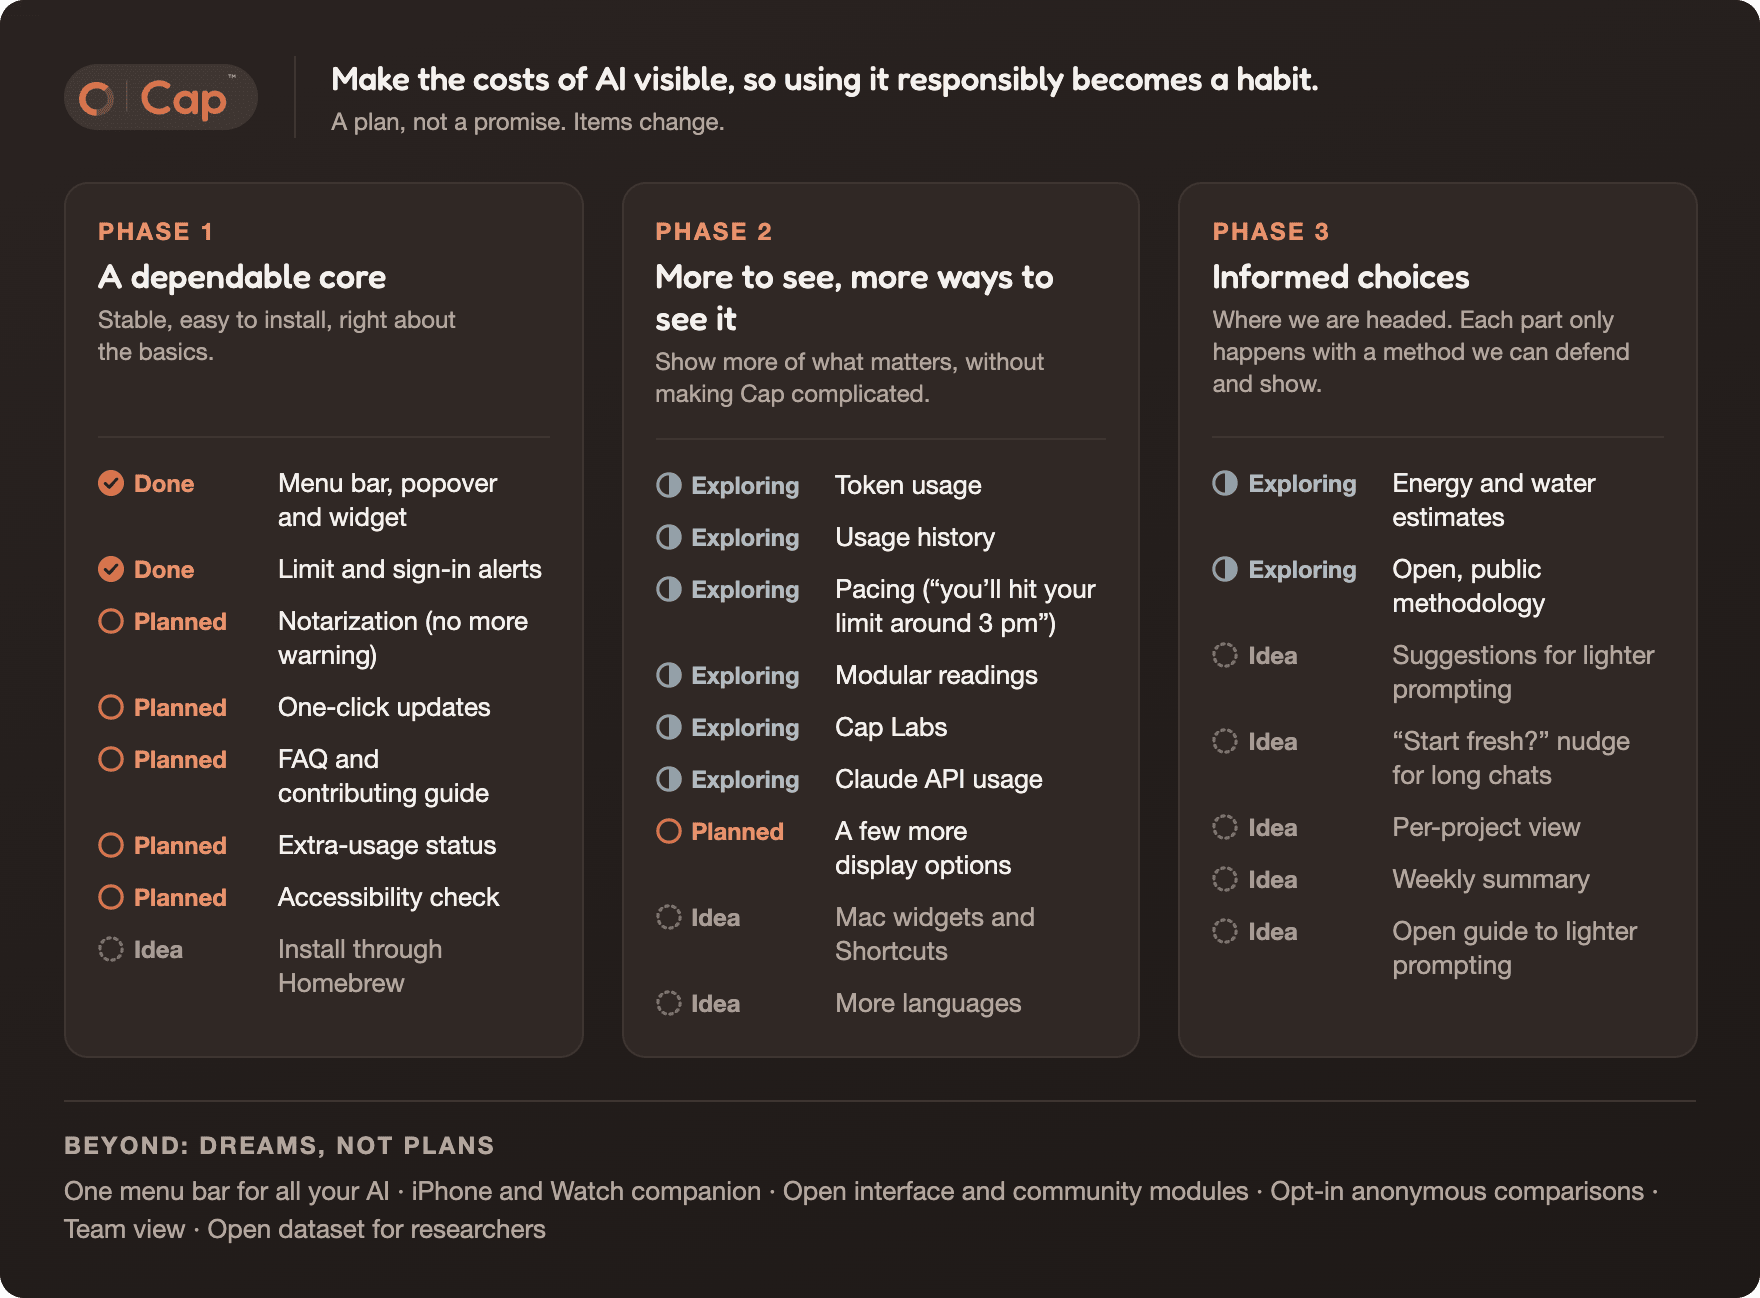
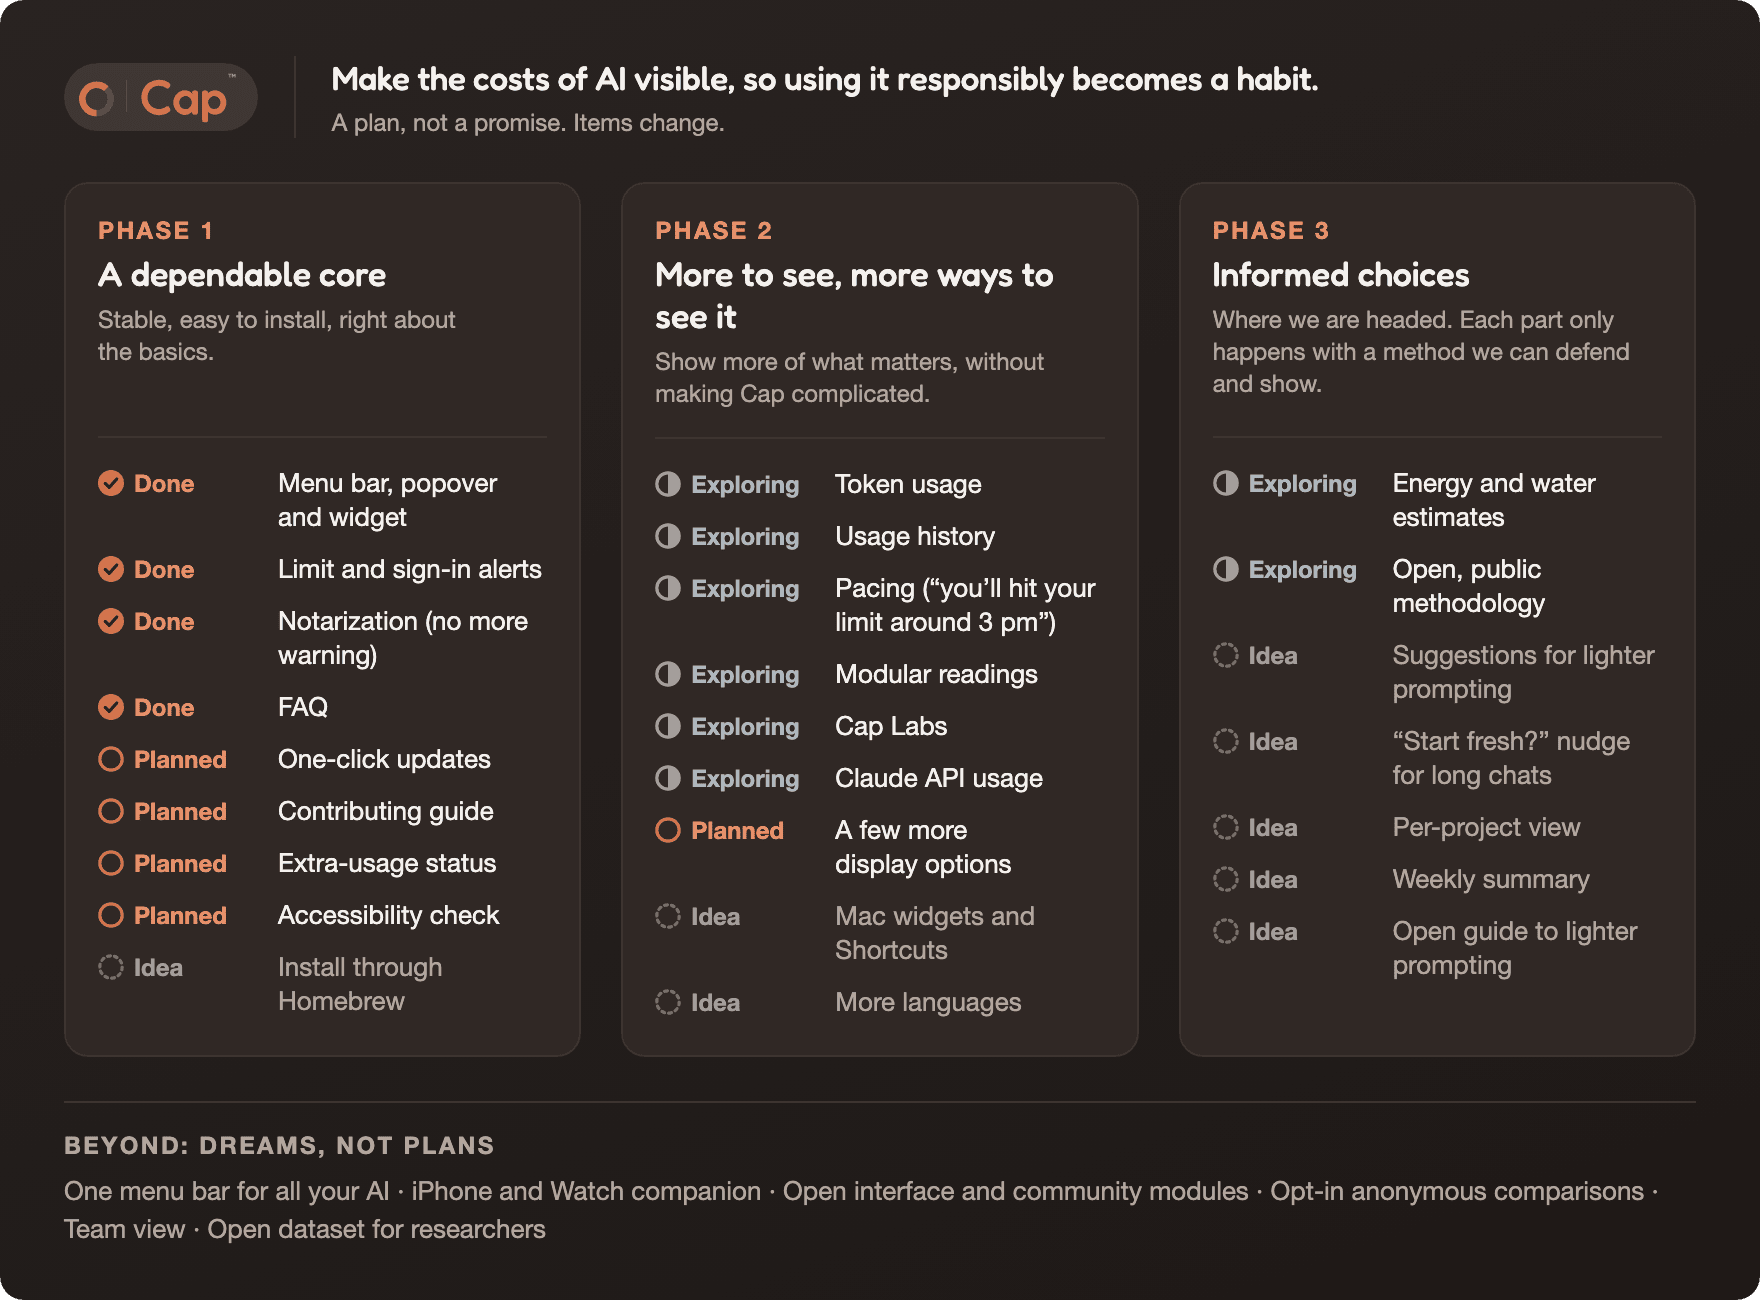
Cap 1.0.1 (build 37): signed and notarized by Apple
make-dmg.sh can sign with a Developer ID, notarize and staple. README, FAQ,
install guide and roadmap updated.

diff --git a/INSTALL.md b/INSTALL.md
@@ -1,30 +1,17 @@
 # Installing Cap
 
-Cap is free and open source, and it is not yet notarized by Apple. That means macOS will stop it the first time you open it and ask you to confirm. This page walks through every step, so nothing on the screen is a surprise.
-
-**About 3 minutes. You will need Touch ID or your Mac password once.**
+Cap is free and open source. It is signed with an Apple Developer ID and notarized by Apple, so it installs like any other Mac app you download.
 
 ## Before you start
 
 - macOS 13 or later, on an Apple silicon Mac (M1 or newer).
 - Claude Code or the Claude desktop app, signed in with a **Pro, Max or Ultra** plan.
-- The screenshots below are in English. On a Mac set to another language, the wording will differ but the steps are the same.
-
-## Why there is a warning
-
-Apple checks apps from developers who are enrolled in its paid developer programme (a yearly fee) and "notarizes" them. Cap is a free hobby project and is not enrolled yet. Notarization is planned, with no date. When it happens, this page gets much shorter.
-
-The warning does not mean something is wrong with Cap. It means Apple has not run its checks. You do not have to take Cap's word for it:
-
-- **Read it.** All of the code is in this repository.
-- **Build it yourself.** See "Build from source" in the [README](README.md).
-- **Check your download.** Each release page shows a SHA-256 fingerprint. In Terminal, run `shasum -a 256 ~/Downloads/Cap-<version>.dmg` and compare the result. If they differ, do not open it.
 
 ## Step 1. Download
 
-Download `Cap-<version>.dmg` from the [Releases](../../releases) page.
+Download `Cap-<version>.dmg` from [cap.kelson.ai](https://cap.kelson.ai) or the [Releases](../../releases) page.
 
-The first time, Safari may ask whether to allow downloads on `release-assets.githubusercontent.com`. That is the address GitHub uses to serve release files. Click **Allow**.
+The first time, Safari may ask whether to allow downloads. Release files are served by GitHub from `release-assets.githubusercontent.com`. Click **Allow**.
 
 ## Step 2. Move Cap into Applications
 
@@ -32,41 +19,21 @@ Open the downloaded file and drag **Cap** onto **Applications**.
 
 <img src="assets/install/01-dmg-window.png" width="420" alt="The Cap installer window: the Cap icon on the left, an arrow pointing to the Applications folder on the right, and the words Drag Cap to Applications.">
 
-## Step 3. Open Cap, and let macOS stop it
+## Step 3. Open Cap
 
-Open **Cap** from Applications. macOS shows a message that it cannot verify Cap.
+Open **Cap** from Applications. macOS asks once: “Cap” is an app downloaded from the Internet. Are you sure you want to open it? It adds that Apple checked it for malicious software and none was detected. Click **Open**.
 
-<img src="assets/install/02-not-opened.png" width="260" alt="A macOS dialog titled “Cap” Not Opened. It says Apple could not verify Cap is free of malware that may harm your Mac or compromise your privacy, with two buttons: Move to Trash, highlighted in blue, and Done.">
-
-Click **Done**. The blue button is **Move to Trash**, so take care: you want the grey one underneath.
-
-## Step 4. Allow Cap in System Settings
-
-1. Open **System Settings** and choose **Privacy & Security**.
-2. Scroll down to the **Security** section. You will see "Cap was blocked to protect your Mac."
-3. Click **Open Anyway**.
-
-<img src="assets/install/03-privacy-security-open-anyway.png" width="560" alt="The Privacy & Security page in System Settings, scrolled to the Security section. A line reads “Cap” was blocked to protect your Mac, with an Open Anyway button on the right.">
-
-If you cannot see that line, open Cap once more (Step 3) and come back. macOS only shows it after it has stopped the app.
-
-## Step 5. Confirm that you want to open it
-
-macOS asks once more. Click **Open Anyway**.
-
-<img src="assets/install/04-open-cap-dialog.png" width="240" alt="A macOS dialog titled Open “Cap”? It warns that Apple is not able to verify the app, with three buttons: Move to Trash, Open Anyway and Done.">
-
-## Step 6. Use Touch ID or your password
-
-Finally macOS asks you to prove it is you. Use Touch ID, or choose **Use Password…** and type your Mac password.
-
-<img src="assets/install/05-touch-id-password.png" width="250" alt="A macOS dialog with a fingerprint icon, asking for Touch ID or an administrator's name and password to continue, with buttons Use Password and Cancel.">
-
-Cap opens. Once Cap is running from Applications, macOS may ask whether to eject the installer disk. Click **Eject** to clear it, or **Not Now** to keep it open. Your downloaded file stays in Downloads either way.
+Once Cap is running from Applications, macOS may ask whether to eject the installer disk. Click **Eject** to clear it, or **Not Now** to keep it open. Your downloaded file stays in Downloads either way.
 
 <img src="assets/install/06-eject-installer.png" width="300" alt="A macOS dialog titled Eject the Cap installer? It says Cap is installed and can eject the installer disk, with two buttons: Not Now and Eject.">
 
 Then Cap's welcome window takes it from here.
+
+## Check your download (optional)
+
+- **Fingerprint.** Each release page shows a SHA-256 fingerprint. In Terminal, run `shasum -a 256 ~/Downloads/Cap-<version>.dmg` and compare. If they differ, do not open it.
+- **Apple's check.** Run `spctl -a -vv /Applications/Cap.app`. It should say `source=Notarized Developer ID`.
+- **The code.** All of it is in this repository, and you can [build it yourself](README.md).
 
 ## Other messages you can expect
 
@@ -78,22 +45,7 @@ Then Cap's welcome window takes it from here.
 
 ## Updates
 
-If you turn on automatic checks, Cap checks GitHub once a day and shows a small red dot on its Settings icon when a new version is out. You can also check by hand at any time. It never installs anything by itself. Until Cap is notarized, each new version needs Steps 3 to 6 again.
-
-## Prefer Terminal?
-
-<details>
-<summary>Skip the clicks (for people who are comfortable with Terminal)</summary>
-
-After moving Cap into Applications, run:
-
-```bash
-xattr -dr com.apple.quarantine /Applications/Cap.app
-```
-
-This removes the "downloaded from the internet" mark, so macOS stops asking. It also skips the check, so only do it for a download you have verified with the fingerprint above.
-
-</details>
+If you turn on automatic checks, Cap checks GitHub once a day and shows a small red dot on its Settings icon when a new version is out. You can also check by hand at any time. It never installs anything by itself. To update, quit Cap, open the new download, drag **Cap** onto **Applications** and choose **Replace**.
 
 ## Something not working?
 

diff --git a/ROADMAP.md b/ROADMAP.md
@@ -1,7 +1,7 @@
 <p align="center">
 <picture>
   <source media="(prefers-color-scheme: dark)" srcset="assets/readme/roadmap-dark.png">
-  <img src="assets/readme/roadmap-light.png" width="880" alt="Cap roadmap. Make the costs of AI visible, so using it responsibly becomes a habit. A plan, not a promise. Items change. Phase 1, A dependable core: stable, easy to install, right about the basics. Done: menu bar, popover and widget. Done: limit and sign-in alerts. Planned: notarization (no more warning). Planned: one-click updates. Planned: FAQ and contributing guide. Planned: extra-usage status. Planned: accessibility check. Idea: install through Homebrew. Phase 2, More to see, more ways to see it: show more of what matters, without making Cap complicated. Exploring: token usage. Exploring: usage history. Exploring: pacing (&quot;you'll hit your limit around 3 pm&quot;). Exploring: modular readings. Exploring: Cap Labs. Exploring: Claude API usage. Planned: a few more display options. Idea: Mac widgets and Shortcuts. Idea: more languages. Phase 3, Informed choices: where we are headed; each part only happens with a method we can defend and show. Exploring: energy and water estimates. Exploring: open, public methodology. Idea: suggestions for lighter prompting. Idea: &quot;Start fresh?&quot; nudge for long chats. Idea: per-project view. Idea: weekly summary. Idea: open guide to lighter prompting. Beyond, dreams, not plans: one menu bar for all your AI; iPhone and Watch companion; open interface and community modules; opt-in anonymous comparisons; team view; open dataset for researchers.">
+  <img src="assets/readme/roadmap-light.png" width="880" alt="Cap roadmap. Make the costs of AI visible, so using it responsibly becomes a habit. A plan, not a promise. Items change. Phase 1, A dependable core: stable, easy to install, right about the basics. Done: menu bar, popover and widget. Done: limit and sign-in alerts. Done: notarization (no more warning). Done: FAQ. Planned: one-click updates. Planned: contributing guide. Planned: extra-usage status. Planned: accessibility check. Idea: install through Homebrew. Phase 2, More to see, more ways to see it: show more of what matters, without making Cap complicated. Exploring: token usage. Exploring: usage history. Exploring: pacing (&quot;you'll hit your limit around 3 pm&quot;). Exploring: modular readings. Exploring: Cap Labs. Exploring: Claude API usage. Planned: a few more display options. Idea: Mac widgets and Shortcuts. Idea: more languages. Phase 3, Informed choices: where we are headed; each part only happens with a method we can defend and show. Exploring: energy and water estimates. Exploring: open, public methodology. Idea: suggestions for lighter prompting. Idea: &quot;Start fresh?&quot; nudge for long chats. Idea: per-project view. Idea: weekly summary. Idea: open guide to lighter prompting. Beyond, dreams, not plans: one menu bar for all your AI; iPhone and Watch companion; open interface and community modules; opt-in anonymous comparisons; team view; open dataset for researchers.">
 </picture>
 </p>
 <p align="center"><em>I start with the basics, then show more, and only then help you choose. The full list is below.</em></p>
@@ -24,9 +24,10 @@ The vision behind it: *make the costs of AI visible, so using it responsibly bec
 - **Done:** menu bar dial and figures (Compact and Expanded), popover, pinned widget (Small, Medium, Strip).
 - **Done:** first-run welcome window; works with Claude Code or the Claude desktop app.
 - **Done:** limit alerts, signed-out alerts, one-click sign-in, daily update check against GitHub.
-- **Planned:** notarization, so macOS stops showing the "cannot verify the developer" warning.
-- **Planned:** one-click updates, once Cap is notarized.
-- **Planned:** a short FAQ, and a contributing guide so people can help.
+- **Done:** notarization, so macOS no longer shows the "cannot verify the developer" warning.
+- **Done:** a short [FAQ](FAQ.md).
+- **Planned:** one-click updates.
+- **Planned:** a contributing guide, so people can help.
 - **Planned:** extra-usage status (whether you are using paid overage), which Cap can already see.
 - **Planned:** a VoiceOver and keyboard check, so Cap works for everyone.
 - **Idea:** install with one line through Homebrew.

diff --git a/FAQ.md b/FAQ.md
@@ -26,17 +26,17 @@ No. Cap is an independent project and is not made or endorsed by Anthropic. "Cla
 
 ## Installing
 
-**Why does macOS warn me when I open Cap?**
+**Will macOS warn me when I open Cap?**
 
-Cap isn't yet signed by Apple's paid developer programme, so macOS stops it the first time. Cap is open source, and the steps to open it are in [INSTALL.md](INSTALL.md). They take about three minutes, once per install.
+Only with its usual question for any app downloaded from the internet. Click **Open**. Since version 1.0.1, Cap is signed with an Apple Developer ID and notarized by Apple.
 
 **Is it safe to open?**
 
-Every release has a SHA-256 fingerprint on its release page. You can check your download against it in Terminal before you open it. You can also read all of the code, or build Cap yourself.
+Apple's notary service has scanned it for known malware, which is not a review of what the app does. Every release has a SHA-256 fingerprint on its release page. You can check your download against it in Terminal before you open it. You can also read all of the code, or build Cap yourself.
 
-**Do I have to do this again after an update?**
+**How do I update?**
 
-Yes, until Cap is notarized. Each new version shows the same warning, and the same steps open it.
+Quit Cap, open the new download, drag **Cap** onto **Applications** and choose **Replace**.
 
 ## Using Cap
 

diff --git a/README.md b/README.md
@@ -63,7 +63,7 @@ Cap is a small, free menu bar app for people who use Claude Code or the Claude d
 2. Open it and drag **Cap** onto **Applications**.
 3. Open Cap. The welcome window walks you through the rest in five short steps.
 
-**A warning you will see the first time:** Cap is not yet notarized by Apple, so macOS stops it once and asks you to confirm. That is expected for a free hobby app that is not (yet) in Apple's developer programme. It takes about three minutes and is explained step by step, with the real messages, in **[INSTALL.md](INSTALL.md)**. Cap is open source: you can read every line, or build it yourself (below).
+**Signed and notarized.** Cap is signed with an Apple Developer ID and checked by Apple's notary service, so the first time you open it macOS only asks whether you want to open an app downloaded from the internet. [INSTALL.md](INSTALL.md) has the details. Cap is open source: you can read every line, or build it yourself (below).
 
 ## How it works, in plain words
 
